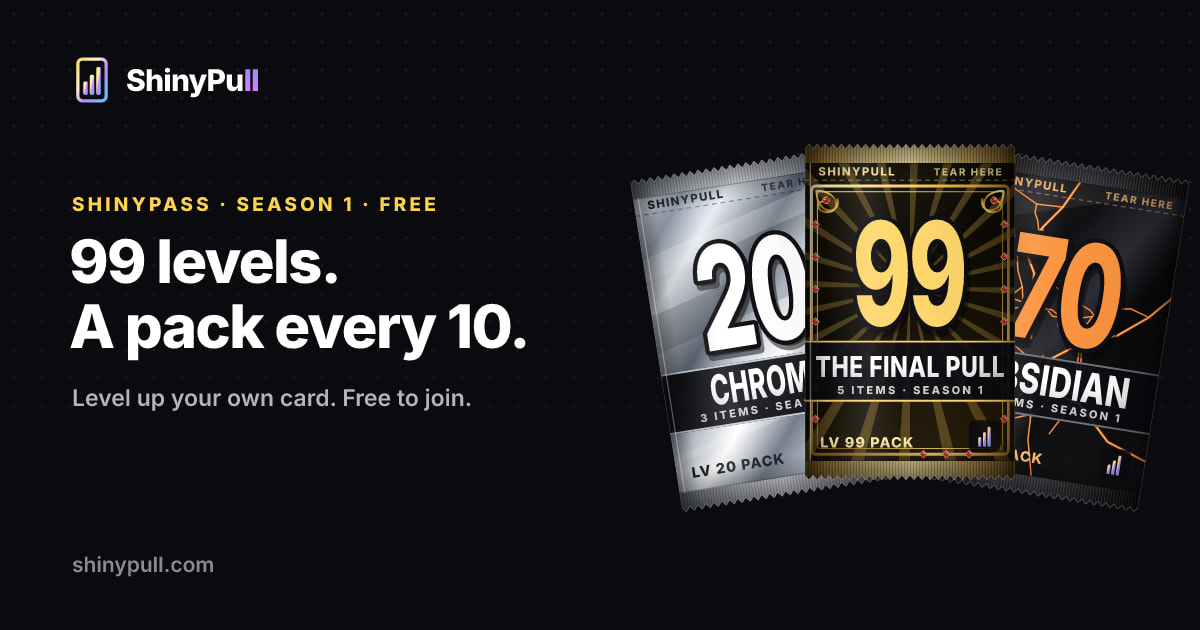
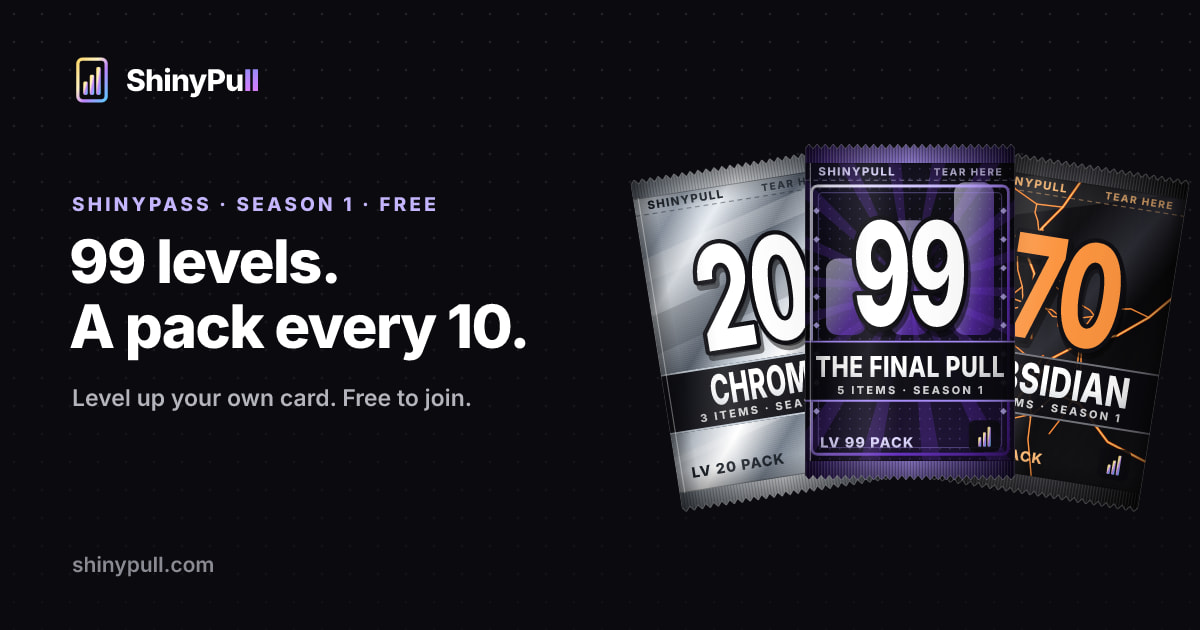
The Final Pull pack in black and brand purple, with its set and bonus effect to match

Changed region(s): [[0.6475, 0.2111, 0.8633, 0.5429], [0.6475, 0.6333, 0.8633, 0.7841], [0.0617, 0.3016, 0.37, 0.3317]]

diff --git a/src/lib/packArt.js b/src/lib/packArt.js
@@ -52,7 +52,7 @@ const W = PACK_W, H = PACK_H, CX = W / 2, CY = 150;
 // reads at a glance on any material.
 const NUM_COLOR = {
   cardstock: '#F5B942', chrome: '#FFFFFF', holo: '#FFFFFF', cosmic: '#C4B5FD', prism: '#FFFFFF',
-  crystal: '#7DD3FC', obsidian: '#FB923C', platinum: '#FFFFFF', mythic: '#F0ABFC', final: '#FFD76A',
+  crystal: '#7DD3FC', obsidian: '#FB923C', platinum: '#FFFFFF', mythic: '#F0ABFC', final: '#FFFFFF',
 };
 
 /*
@@ -250,27 +250,32 @@ ${cluster(-8, 60, 4, 0.55, 0.9)}${cluster(228, 150, 4, 3.3, 0.9)}${cluster(-8, 3
     };
   },
 
+  // The Final Pull: the brand pack. Black with brand-purple foil, the
+  // ShinyPull bars huge behind the number, a double foil frame and violet
+  // studs.
   final(id, anim) {
-    const rays = Array.from({ length: 24 }, (_, i) => {
-      const a0 = (i / 24) * Math.PI * 2, a1 = a0 + Math.PI / 48;
+    const rays = Array.from({ length: 18 }, (_, i) => {
+      const a0 = (i / 18) * Math.PI * 2, a1 = a0 + Math.PI / 30;
       return `<path d="M${CX} ${CY}L${f1(CX + Math.cos(a0) * 300)} ${f1(CY + Math.sin(a0) * 300)}L${f1(CX + Math.cos(a1) * 300)} ${f1(CY + Math.sin(a1) * 300)}Z"/>`;
     }).join('');
-    const scroll = (t) => `<g transform="${t}"><path d="M4 4 C 30 4, 30 30, 12 26 C 2 24, 6 12, 14 16 M4 4 C 4 30, 30 30, 26 12" fill="none" stroke="url(#${id}au)" stroke-width="2"/><circle cx="14" cy="14" r="3.4" fill="#B91C1C" stroke="url(#${id}au)" stroke-width="1"/><circle cx="13" cy="13" r="1" fill="#FECACA"/></g>`;
-    const rubies = [];
-    for (let x = 124; x <= W - 30; x += 24) rubies.push([x, H - 27]);
-    for (let y = 84; y <= H - 60; y += 34) rubies.push([11, y], [W - 11, y]);
-    const ruby = rubies.map(([x, y]) => `<path d="M${x} ${y - 4}L${x + 4} ${y}L${x} ${y + 4}L${x - 4} ${y}Z" fill="#DC2626" stroke="#FDE68A" stroke-width=".8"/><path d="M${x} ${y - 4}L${x + 4} ${y}L${x} ${y}Z" fill="#FCA5A5" opacity=".8"/>`).join('');
+    const studs = [];
+    for (let y = 70; y <= H - 70; y += 30) studs.push([12, y], [W - 12, y]);
+    const stud = studs.map(([x, y]) => `<path d="M${x} ${y - 3.5}L${x + 3.5} ${y}L${x} ${y + 3.5}L${x - 3.5} ${y}Z" fill="#C4B5FD"/>`).join('');
+    // Brand bars, scaled up behind the number.
+    const bar = (x, y, h) => `<rect x="${x}" y="${y}" width="42" height="${h}" rx="12" fill="url(#${id}pf)"/>`;
     return {
-      defs: lin(`${id}m`, [[0, '#1A1406'], [0.5, '#0B0904'], [1, '#221807']], 'x1="0" y1="0" x2=".5" y2="1"')
-        + lin(`${id}au`, [[0, '#FFF3C4'], [0.3, '#F5C451'], [0.55, '#9A6B12'], [0.8, '#FFD76A'], [1, '#B7861F']], 'x1="0" y1="0" x2="1" y2="1"'),
+      defs: lin(`${id}m`, [[0, '#15102A'], [0.45, '#0A0A0F'], [1, '#1B1033']], 'x1="0" y1="0" x2=".5" y2="1"')
+        + lin(`${id}pf`, [[0, '#F5F3FF'], [0.35, '#C4B5FD'], [0.7, '#7C3AED'], [1, '#4C1D95']], 'x1="0" y1="0" x2="1" y2="1"', anim ? '<animateTransform attributeName="gradientTransform" type="translate" values="0 0;.25 .25;0 0" dur="6s" repeatCount="indefinite"/>' : '')
+        + `<pattern id="${id}dg" width="10" height="10" patternUnits="userSpaceOnUse"><circle cx="5" cy="5" r=".8" fill="#A78BFA" opacity=".35"/></pattern>`,
       body: `<rect width="${W}" height="${H}" fill="url(#${id}m)"/>
-<g fill="#F5C451" opacity=".26">${anim ? `<animateTransform attributeName="transform" type="rotate" values="0 ${CX} ${CY};15 ${CX} ${CY};0 ${CX} ${CY}" dur="12s" repeatCount="indefinite"/>` : ''}${rays}</g>
-<rect x="7" y="44" width="${W - 14}" height="${H - 71}" rx="4" fill="none" stroke="url(#${id}au)" stroke-width="3"/>
-<rect x="13" y="50" width="${W - 26}" height="${H - 83}" rx="3" fill="none" stroke="url(#${id}au)" stroke-width="1"/>
-${scroll('translate(8 45)')}${scroll(`translate(${W - 8} 45) scale(-1 1)`)}
-${ruby}`,
-      ink: '#FFE8A3',
-      seal: [[0, '#8A5E0F'], [0.5, '#FFE9A3'], [1, '#7A520C']],
+<rect width="${W}" height="${H}" fill="url(#${id}dg)"/>
+<g fill="#7C3AED" opacity=".22">${anim ? `<animateTransform attributeName="transform" type="rotate" values="0 ${CX} ${CY};360 ${CX} ${CY}" dur="40s" repeatCount="indefinite"/>` : ''}${rays}</g>
+<g opacity=".55">${bar(22, 120, 80)}${bar(89, 80, 120)}${bar(156, 40, 160)}</g>
+<rect x="7" y="44" width="${W - 14}" height="${H - 71}" rx="6" fill="none" stroke="url(#${id}pf)" stroke-width="3"/>
+<rect x="14" y="51" width="${W - 28}" height="${H - 85}" rx="4" fill="none" stroke="#A78BFA" stroke-opacity=".45" stroke-width="1"/>
+${stud}`,
+      ink: '#DDD6FE',
+      seal: [[0, '#2E1065'], [0.5, '#A78BFA'], [1, '#1E0B4A']],
     };
   },
 };

diff --git a/src/lib/shinyPass.js b/src/lib/shinyPass.js
@@ -102,7 +102,7 @@ export const PACKS = [
   { level: 70, key: 'obsidian', face: .08,  name: 'Obsidian',  items: 3, a: '#71717A', b: '#E4E4E7', c: '#27272A', d: '#A1A1AA', base: '#050506', fx: ['sheen', 'foil', 'stripes', 'facets'] },
   { level: 80, key: 'platinum', face: .66,  name: 'Platinum',  items: 4, a: '#E5E4E2', b: '#FFFFFF', c: '#9CA3AF', d: '#CBD5E1', base: '#0e1014', fx: ['sheen', 'double', 'foil', 'stripes', 'facets'] },
   { level: 90, key: 'mythic', face: .46,    name: 'Mythic',    items: 4, a: '#F472B6', b: '#FDE68A', c: '#8B5CF6', d: '#22D3EE', base: '#0b0614', fx: ['sheen', 'double', 'foil', 'stripes', 'prism', 'sparkles'] },
-  { level: 99, key: 'final', face: .52,     name: 'The Final Pull', items: 5, a: '#FFD76A', b: '#FFF3C4', c: '#C084FC', d: '#5EC8FF', base: '#0a0a0f', fx: ['sheen', 'double', 'foil', 'stripes', 'prism', 'facets', 'stars', 'sparkles'] },
+  { level: 99, key: 'final', face: .52,     name: 'The Final Pull', items: 5, a: '#A78BFA', b: '#F5F3FF', c: '#7C3AED', d: '#C4B5FD', base: '#0a0a0f', fx: ['sheen', 'double', 'foil', 'stripes', 'prism', 'facets', 'stars', 'sparkles'] },
 ];
 export const PACK_BY_LEVEL = Object.fromEntries(PACKS.map((p) => [p.level, p]));
 export const PACK_BY_KEY = Object.fromEntries(PACKS.map((p) => [p.key, p]));
@@ -140,7 +140,7 @@ export const RINGS = {
   magma:     { name: 'Magma ring',     rarity: 'epic',      set: 'obsidian',  a: '#FDBA74', b: '#7C2D12' },
   pearl:     { name: 'Pearl ring',     rarity: 'epic',      set: 'platinum',  a: '#FFFFFF', b: '#F9A8D4' },
   arcane:    { name: 'Arcane ring',    rarity: 'legendary', set: 'mythic',    a: '#E879F9', b: '#0891B2' },
-  royal:     { name: 'Royal ring',     rarity: 'legendary', set: 'final',     a: '#FFE8A3', b: '#B91C1C' },
+  royal:     { name: 'Royal ring',     rarity: 'legendary', set: 'final',     a: '#F5F3FF', b: '#6D28D9' },
 };
 
 export const TITLES = {
@@ -207,7 +207,7 @@ export const NAME_EFFECTS = {
   lava:       { name: 'Lava name',       rarity: 'epic',      set: 'obsidian',  stops: ['#FDE68A', '#F97316', '#DC2626'] },
   diamond:    { name: 'Diamond name',    rarity: 'epic',      set: 'platinum',  stops: ['#FFFFFF', '#E0E7FF', '#FBCFE8'] },
   spellbound: { name: 'Spellbound name', rarity: 'legendary', set: 'mythic',    stops: ['#F0ABFC', '#A78BFA', '#2DD4BF'] },
-  crown:      { name: 'Crown name',      rarity: 'legendary', set: 'final',     stops: ['#FFF3C4', '#F5C451', '#FCA5A5'] },
+  crown:      { name: 'Crown name',      rarity: 'legendary', set: 'final',     stops: ['#F5F3FF', '#A78BFA', '#7C3AED'] },
 };
 
 // Card backs show when your card flips (public page, pack openings).
@@ -231,7 +231,7 @@ export const CARD_BACKS = {
   volcanic:   { name: 'Volcanic back',   rarity: 'epic',      set: 'obsidian',  a: '#EA580C', b: '#0B0B0E', line: '#FDE68A' },
   deco:       { name: 'Deco back',       rarity: 'epic',      set: 'platinum',  a: '#E4E6EB', b: '#6B7280', line: '#FFFFFF' },
   runes:      { name: 'Runes back',      rarity: 'legendary', set: 'mythic',    a: '#7E22CE', b: '#083344', line: '#F0ABFC' },
-  regal:      { name: 'Regal back',      rarity: 'legendary', set: 'final',     a: '#F5C451', b: '#1A1406', line: '#DC2626' },
+  regal:      { name: 'Regal back',      rarity: 'legendary', set: 'final',     a: '#7C3AED', b: '#0A0A0F', line: '#C4B5FD' },
 };
 
 // ── Pack sets ────────────────────────────────────────────────────────────
@@ -261,7 +261,7 @@ export const CARD_EFFECTS = {
   obsidian:  { name: 'Embers',       rarity: 'legendary' },
   platinum:  { name: 'Diamond dust', rarity: 'legendary' },
   mythic:    { name: 'Rune circle',  rarity: 'legendary' },
-  final:     { name: 'Golden rays',  rarity: 'legendary' },
+  final:     { name: 'Ultraviolet',  rarity: 'legendary' },
 };
 
 // Comment flair: the plate behind your name in comments. Pack only.

diff --git a/src/lib/userCard.js b/src/lib/userCard.js
@@ -52,7 +52,7 @@ function cardEffect(key, id, W, H) {
       };
     }
     case 'final': return {
-      under: `<g fill="#F5C451" opacity=".3"><animateTransform attributeName="transform" type="rotate" values="0 ${cx} ${cy};360 ${cx} ${cy}" dur="30s" repeatCount="indefinite"/>${seq(16, (i) => { const a0 = (i / 16) * Math.PI * 2, a1 = a0 + Math.PI / 32; return `<path d="M${cx} ${cy}L${(cx + Math.cos(a0) * 170).toFixed(1)} ${(cy + Math.sin(a0) * 170).toFixed(1)}L${(cx + Math.cos(a1) * 170).toFixed(1)} ${(cy + Math.sin(a1) * 170).toFixed(1)}Z"/>`; })}</g>`,
+      under: `<g fill="#8B5CF6" opacity=".35"><animateTransform attributeName="transform" type="rotate" values="0 ${cx} ${cy};360 ${cx} ${cy}" dur="30s" repeatCount="indefinite"/>${seq(16, (i) => { const a0 = (i / 16) * Math.PI * 2, a1 = a0 + Math.PI / 32; return `<path d="M${cx} ${cy}L${(cx + Math.cos(a0) * 170).toFixed(1)} ${(cy + Math.sin(a0) * 170).toFixed(1)}L${(cx + Math.cos(a1) * 170).toFixed(1)} ${(cy + Math.sin(a1) * 170).toFixed(1)}Z"/>`; })}</g>`,
     };
     default: return {};
   }
